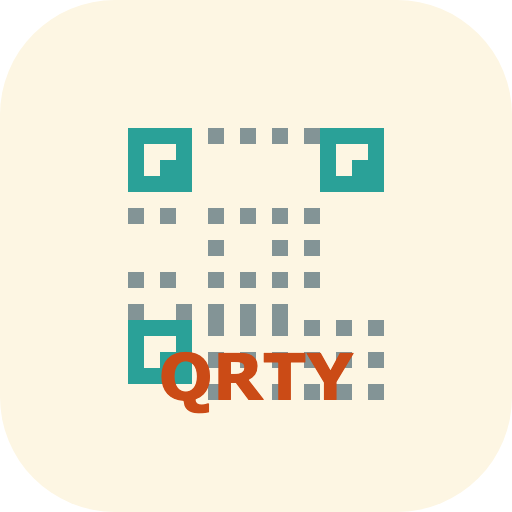
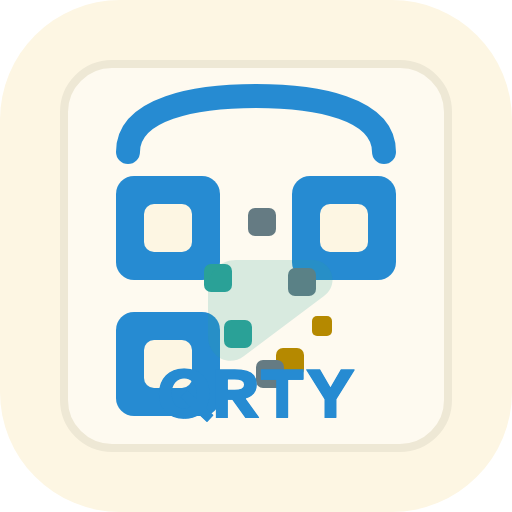
style: refresh branding and documentation assets

diff --git a/src/styles.css b/src/styles.css
@@ -1,12 +1,12 @@
 .instructions {
   background: #eee8d5;
-  padding: 15px;
-  margin-bottom: 20px;
-  line-height: 1.7;
+  border-left: 4px solid #268bd2;
+  padding: 18px 20px;
+  margin-bottom: 24px;
 }
 
 .instructions p {
-  margin-bottom: 15px;
+  margin-bottom: 16px;
 }
 
 .instructions p:last-child {
@@ -15,70 +15,87 @@
 
 .instructions kbd {
   background: #073642;
-  color: #93a1a1;
+  color: #fdf6e3;
   padding: 2px 6px;
-  font:
-    0.85em Monaco,
-    Courier,
-    Monospace;
+  font-family: "Atkinson Hyperlegible Mono", Monaco, Courier, monospace;
+  font-size: 0.85em;
   border: 1px solid #2d6472;
   border-radius: 3px;
 }
 
 .privacy-notice {
-  margin-top: 15px;
-  padding-top: 15px;
-  border-top: 1px solid #839496;
+  border-top: 1px solid #d7cec0;
+  margin-top: 16px;
+  padding-top: 16px;
 }
 
 .control-group {
-  margin: 20px 0;
+  margin: 24px 0;
 }
 
 .control-group button {
-  margin-right: 10px;
-  margin-bottom: 10px;
+  margin-right: 12px;
+  margin-bottom: 12px;
 }
 
 .button-group {
   display: flex;
-  gap: 10px;
+  gap: 12px;
   flex-wrap: wrap;
 }
 
 .capture-btn,
-.action-btn {
-  padding: 10px 20px;
-  font-size: 13px;
-  background: #2aa198;
+.action-btn,
+.file-input-label {
+  box-sizing: border-box;
+  min-width: 160px;
+  padding: 11px 22px;
+  font-size: 0.95rem;
+  font-weight: 600;
+  background: #268bd2;
   color: #fdf6e3;
-  border: 1px solid #2aa198;
+  border: 1px solid #1f6ea5;
+  border-radius: 4px;
   cursor: pointer;
-  transition: all 0.2s;
-  margin-bottom: 15px;
-  display: inline-block;
+  transition:
+    transform 0.15s ease,
+    box-shadow 0.15s ease;
+  margin-bottom: 16px;
+  display: inline-flex;
+  line-height: 1.2;
+  align-items: center;
+  justify-content: center;
   text-decoration: none;
 }
 
 .capture-btn:hover,
 .capture-btn:focus,
 .action-btn:hover,
-.action-btn:focus {
-  background: #2aa198;
-  color: #fdf6e3;
-  border-color: #2aa198;
+.action-btn:focus,
+.file-input-label:hover,
+.file-input-label:focus {
+  transform: translateY(-1px);
+  box-shadow: 0 4px 12px rgba(38, 139, 210, 0.25);
   outline: none;
 }
 
+.capture-btn:focus-visible,
+.action-btn:focus-visible,
+.file-input-label:focus-visible {
+  outline: 3px solid #b58900;
+  outline-offset: 1px;
+  transform: none;
+  box-shadow: none;
+}
+
 .action-btn.secondary {
-  background: #839496;
-  border-color: #839496;
+  background: #657b83;
+  border-color: #586e75;
 }
 
 .action-btn.secondary:hover,
 .action-btn.secondary:focus {
-  background: #839496;
-  border-color: #839496;
+  box-shadow: 0 4px 12px rgba(101, 123, 131, 0.25);
 }
 
 .button-group .action-btn {
@@ -86,35 +103,33 @@
 }
 
 .result-container {
-  margin-top: 20px;
-  padding-top: 20px;
+  margin-top: 24px;
+  padding-top: 24px;
   border-top: 1px solid #eee8d5;
 }
 
 .result-container h2 {
-  margin-bottom: 10px;
+  margin-bottom: 12px;
 }
 
 .url-display {
-  background: #eee8d5;
+  background: #f8f1e3;
   border: 1px solid #eee8d5;
-  padding: 10px;
-  margin-bottom: 15px;
+  padding: 12px;
+  margin-bottom: 16px;
   word-break: break-all;
-  font:
-    0.85em Monaco,
-    Courier,
-    Monospace;
-  color: #2aa198;
+  font-family: "Atkinson Hyperlegible Mono", Monaco, Courier, monospace;
+  color: #268bd2;
+  border-radius: 4px;
 }
 
 .error-container {
-  margin-top: 15px;
-  margin-bottom: 15px;
-  padding: 15px;
-  background: #eee8d5;
-  border: 1px solid #cb4b16;
-  color: #cb4b16;
+  margin: 18px 0;
+  padding: 16px;
+  background: #fceae7;
+  border: 1px solid #dc322f;
+  color: #b71c1c;
+  border-radius: 4px;
   position: relative;
   z-index: 100;
 }
@@ -124,7 +139,7 @@
 }
 
 #video-container {
-  margin: 20px 0;
+  margin: 24px 0;
   position: relative;
   width: 100%;
   max-width: 100%;
@@ -135,28 +150,12 @@
   max-width: 100%;
   height: auto;
   display: block;
+  border-radius: 4px;
+  border: 1px solid #eee8d5;
 }
 
 #canvas-preview {
   display: none;
-}
-
-.file-input-label {
-  display: inline-block;
-  padding: 10px 20px;
-  background: #2aa198;
-  color: #fdf6e3;
-  border: 1px solid #2aa198;
-  cursor: pointer;
-  transition: all 0.2s;
-  margin-bottom: 15px;
-}
-
-.file-input-label:hover,
-.file-input-label:focus {
-  background: #2aa198;
-  color: #fdf6e3;
-  border-color: #2aa198;
 }
 
 #file-input {
@@ -164,8 +163,8 @@
 }
 
 .scanning-status {
-  margin: 10px 0;
+  margin: 12px 0;
   font-size: 0.9em;
-  color: #839496;
+  color: #657b83;
   font-style: italic;
 }

diff --git a/src/index.html b/src/index.html
@@ -63,13 +63,14 @@
       content="black-translucent"
     />
     <meta name="apple-mobile-web-app-title" content="QRTY" />
-    <link
-      rel="stylesheet"
-      href="https://johnsy.com/assets/css/style-20150308.css"
-    />
+    <link rel="stylesheet" href="https://johnsy.com/assets/css/style.css" />
     <link
       rel="stylesheet"
       href="https://johnsy.com/assets/css/colors-light.css"
+    />
+    <link
+      rel="stylesheet"
+      href="https://johnsy.com/assets/css/colors-dark.css"
     />
     <link rel="stylesheet" href="styles.css" />
   </head>

diff --git a/scripts/generate-qr-code.js b/scripts/generate-qr-code.js
@@ -10,7 +10,7 @@ async function generateQRCode() {
       width: 512,
       margin: 2,
       color: {
-        dark: "#2aa198",
+        dark: "#268bd2",
         light: "#fdf6e3",
       },
     });

diff --git a/README.md b/README.md
@@ -60,6 +60,20 @@ The application is a web app hosted at `johnsy.com/QRTY/`. To use it:
 5. Click "Copy URL" or "Open URL" to use the decoded URL
 6. Press `Escape` to stop capture or reset
 
+## Screenshots
+
+![Screenshot of QRTY displaying decoded QR code results](./src/og-image.png)
+
+## Iconography
+
+- Primary app icon:
+
+  ![QRTY app icon showing stylised QR code on cream background](./src/icon-512.png)
+
+- Meta QR code (links to the hosted app):
+
+  ![QR code for https://johnsy.com/QRTY/](./src/qr-code.png)
+
 ## Keyboard Shortcuts
 
 - `Space` - Start/stop screen capture
@@ -70,7 +84,6 @@ The application is a web app hosted at `johnsy.com/QRTY/`. To use it:
 - `pnpm start` - Run local development server
 - `pnpm run lint` - Run ESLint
 - `pnpm run format` - Format code with Prettier
-- `pnpm run type-check` - Run TypeScript type checking
 - `pnpm run generate:icons` - Generate icon files from SVG
 - `pnpm run generate:og-image` - Generate OpenGraph image
 - `pnpm run generate:qr-code` - Generate QR code image for the site URL
